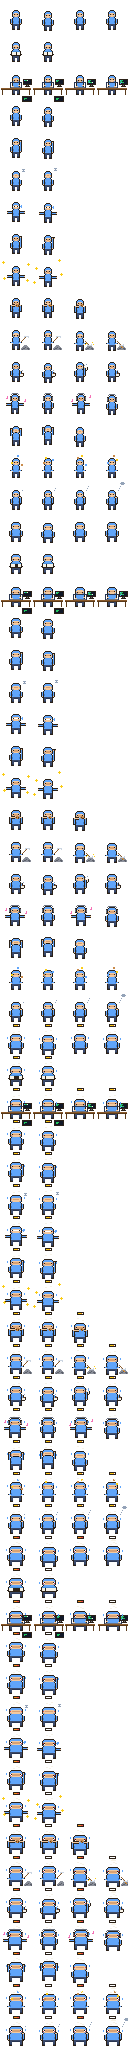
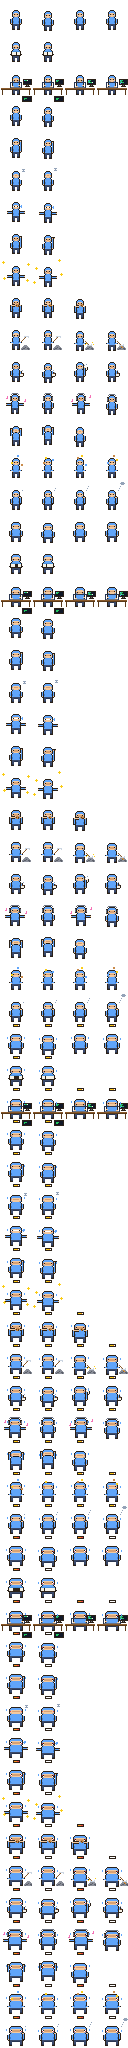
Drop the steam and trembling from the heavy-load look

diff --git a/tools/gen_sprites.py b/tools/gen_sprites.py
@@ -4,8 +4,8 @@
 Output: Sources/ClaudeBuddy/Resources/buddy.png (main) and buddy_1..buddy_4.png (tinted clones).
 Sheet layout: 32x32 px frames, 4 columns, one animation per row (unused frames stay empty).
 Rows come in FAT_LEVELS blocks of 16: block 0 is the normal body, each further block is a wider one
-(used as the agent's context window fills up; level 2 is strained: blush, steam and a load gauge,
-level 3 overheated: dizzy eyes, trembling, gauge blinking red).
+(used as the agent's context window fills up; level 2 is strained: blush, temple drops and a load gauge,
+level 3 overheated: dizzy eyes, gauge blinking red).
 Within a block the row order must match `Pose` in Sources/ClaudeBuddy/Model.swift:
   0 idle  1 read  2 type(desk)  3 run  4 wait  5 sleep  6 oops  7 wave  8 spawn  9 eat  10 mine
   11 coffee  12 dance  13 stretch  14 juggle  15 think
@@ -69,11 +69,6 @@ class Frame:
                 if ch != '.': self.put(x+i, y+j, ch)
     def put(self, x, y, ch):
         if 0 <= x < FRAME and 0 <= y < FRAME: self.px[y][x] = ch
-    def shift(self, dx):
-        """Move the whole frame horizontally (used for trembling)."""
-        for y in range(FRAME):
-            row = self.px[y]
-            self.px[y] = ['.'] * dx + row[:FRAME - dx] if dx > 0 else row[-dx:] + ['.'] * -dx
 
 def widen(art, extra):
     """Insert `extra` copies of the middle column so the shape gets fatter but keeps its outline."""
@@ -188,8 +183,8 @@ class Body:
         self.last_x_off = x_off
 
     def load_overlay(self, f, i):
-        """Heavy-load cues added to frame `i` of every row. Strained: blush, a drop on each temple,
-        steam and a load gauge. Overheated: hotter blush, more steam, trembling, gauge blinking red."""
+        """Heavy-load cues added to frame `i` of every row. Strained: blush, a drop on each temple
+        and a load gauge. Overheated: hotter blush, dizzy eyes, gauge blinking red."""
         if self.condition == 'fine': return
         hot = self.condition == 'overheated'
         xo = getattr(self, 'last_x_off', 0)
@@ -201,15 +196,7 @@ class Body:
         for x in (x0 - 1, x0 + W):
             y = OY + 3 + i % 2
             f.put(x, y, 'd'); f.put(x, y + 1, 'd')
-        # steam rising from the head
-        puffs = [(cx - 3, 0), (cx + 2, 1)] + ([(cx, 2)] if hot else [])
-        for (x, k) in puffs:
-            y = OY - 2 - (i + k) % 3
-            f.put(x, y, 'B'); f.put(x + 1, y, 'B')
-        if hot and i % 4 == 3: f.blit([".BBB.", "BBBBB"], cx - 2, OY - 7)
-        # trembling: shake the whole body on odd frames
-        if hot and i % 2 == 1: f.shift(1)
-        # load gauge above the head (does not shake)
+        # load gauge above the head
         gx, gy = cx - 3, OY - 10
         f.blit(["ooooooo", "o.....o", "ooooooo"], gx, gy)
         if hot:

diff --git a/README.md b/README.md
@@ -63,7 +63,7 @@ Events carry `agent_id`, so tool calls made *inside* a subagent animate that clo
 `.jsonl` (or the subagent's file under `<session>/subagents/`) and takes the latest assistant turn's
 input + cache tokens as the context in use. The sheet has four body widths; the character steps up one
 size for every 25 % of the window used, and the label shows the count, e.g. `shack-products · 115k`.
-Past 50 % the character flushes, steams and shows a load gauge; past 75 % it is dizzy, trembling and the gauge blinks red.
+Past 50 % the character flushes and shows a load gauge above its head; past 75 % it is dizzy and the gauge blinks red.
 The window size (200k or 1M) is a toggle in the menu bar.
 Multiple concurrent Claude sessions each get their own character (labelled with the project folder).
 
